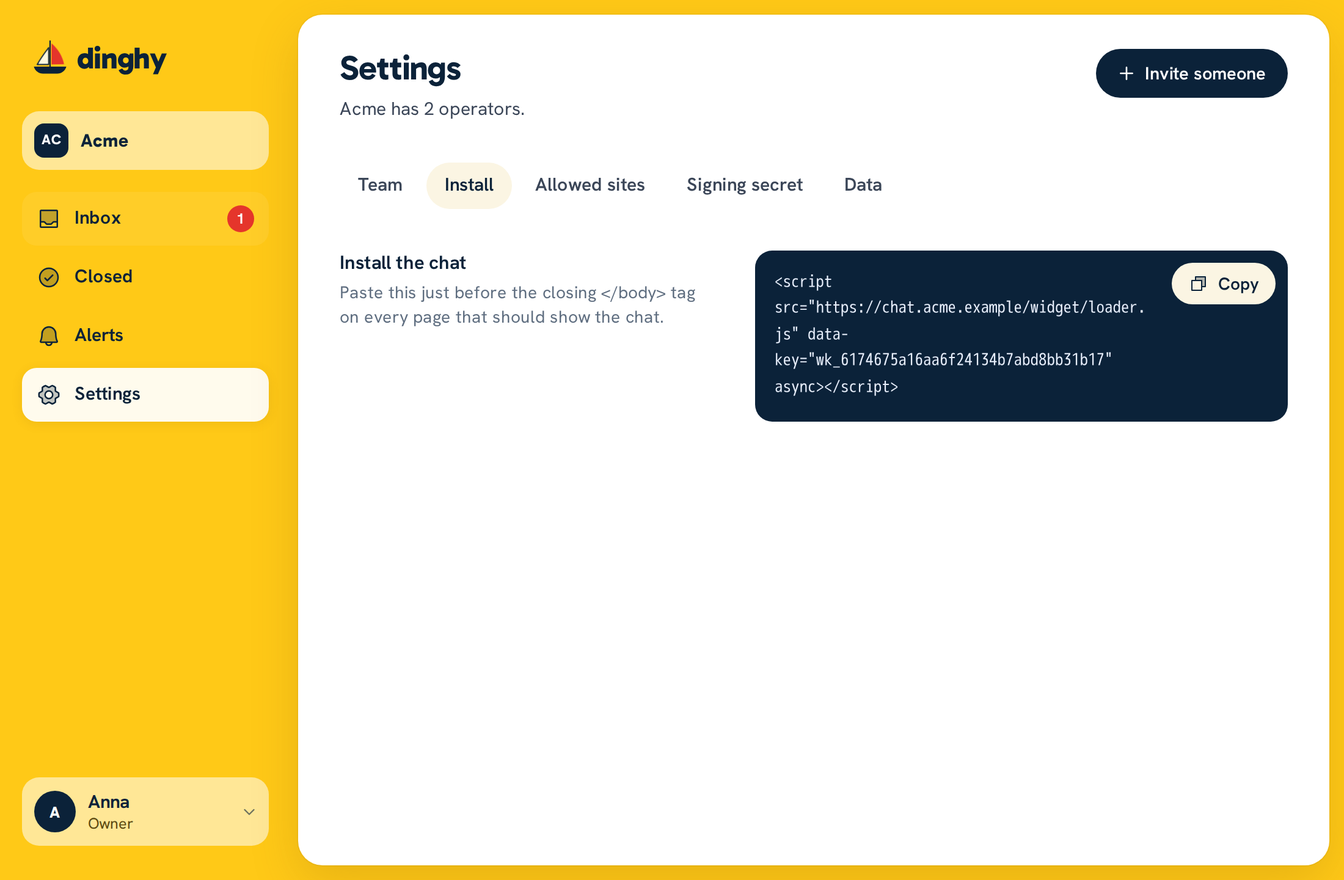
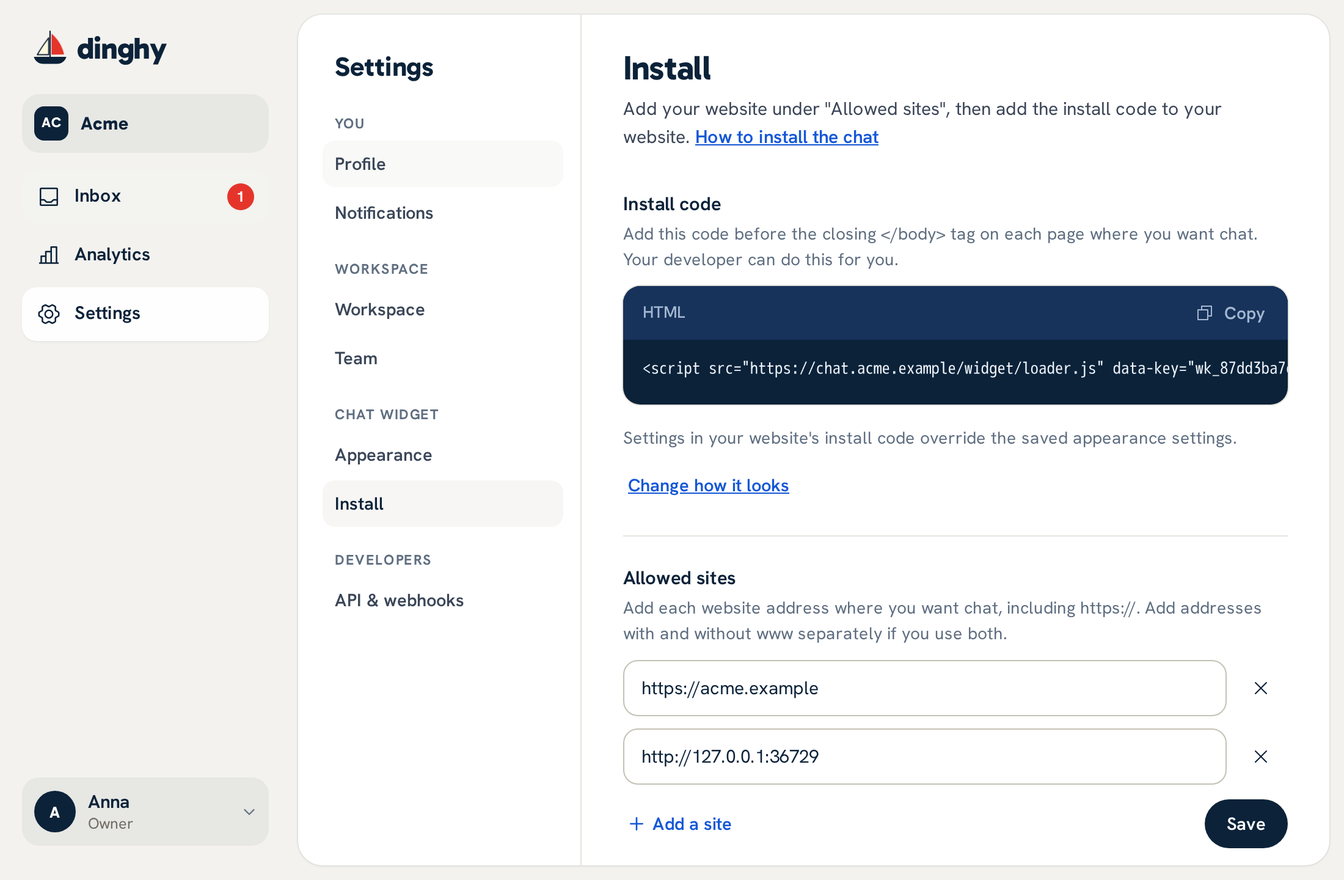
Docs: the new Settings layout, notification scopes, plan and usage, billing, and sign-in link fixes

diff --git a/docs/operator-guide.md b/docs/operator-guide.md
@@ -6,23 +6,23 @@ The operator app is where your team reads and answers chats. Open your Dinghy ad
 
 ## Answer a chat
 
-The sidebar has **Inbox**, **Analytics**, **Alerts** and **Settings**. New conversations appear in the **Inbox** with no reload, and the red number counts the people who wait for a reply. At the top of the list, **Open** and **Closed** pick which conversations it shows. In a team, **All**, **Mine** and **Unassigned** below them pick whose. The app remembers both in the address, so a reload or a shared link keeps them. Select one to read it, write in the reply box, and press Enter or the send button. If your site sends details with `setContext()`, they show under **From the page**. Your site does not sign them, so treat them as a hint.
+The sidebar has **Inbox**, **Analytics** and **Settings**. New conversations appear in the **Inbox** with no reload, and the red number counts the people who wait for a reply. At the top of the list, the **Open** and **Closed** switch picks which conversations it shows. In a team of more than one, **All**, **Mine** and **Unassigned** below it pick whose. The app remembers both in the address, so a reload or a shared link keeps them. Select one to read it, write in the reply box, and press Enter or the send button. If your site sends details with `setContext()`, they show under **Details from your website**. Visitors can change these details in their browser, so do not use them to verify identity or account access.
 
 To send an image, paste it, drag it onto the chat, or select the image button. The rules are the same as for visitors: PNG, JPEG or WebP, under 5 MB and under 16 megapixels.
 
 If a message shows "Not sent", select it to try again. A retry cannot create a second copy.
 
-If two of you open the same conversation, each sees "… is replying", so you do not answer twice.
+If two of you open the same conversation, each sees "… has this conversation open", so you do not answer twice. It means only that the conversation is open on their screen. Dinghy does not detect typing.
 
 To find a conversation, type at least three characters in the search box above the list. It searches open and closed conversations by the visitor's name, email or user ID, and by what anyone wrote, and shows the matching message under each one. Press Escape or empty the box to go back to the list.
 
-Under the visitor's name, the header shows their email and user ID, when the name does not already show them, and the page where they started. The next line shows **Online now** while the visitor has the chat open, or when they were last seen, then their browser and system, such as "Chrome on macOS". Below that is the last page they were on, which opens in a new tab; when it is the page where they started, the header names it only once. If Dinghy cannot tell whether they are online, it says nothing about it. On the right are the controls:
+Under the visitor's name, the header shows their email and user ID, when the name does not already show them, and the page where they started. The next line shows **Chat is open** while the visitor has the chat open, or when they were last seen, then their browser and system, such as "Chrome on macOS". Below that is the last page they were on, which opens in a new tab; when it is the page where they started, the header names it only once. If Dinghy cannot tell whether they are online, it says nothing about it. On the right are the controls:
 
 | Control | What it does |
 |---|---|
 | The assignee | A list that gives the conversation to one person on your team, or to nobody |
 | **Close** | Moves it under **Closed** in the Inbox. **Reopen** brings it back. If the visitor writes after a close, this starts a new conversation with no assignee, and the visitor sees one thread |
-| **…** then **Block** | Stops this visitor from sending messages. **Unblock** in the same place undoes it, and so does **Settings > Data > Blocked visitors** |
+| **…** then **Block** | Stops this visitor from sending messages. **Unblock** in the same place undoes it, and so does **Blocked visitors** in **Settings > Workspace** |
 | **…** then **Delete** | Deletes the conversation and its images for good, after you confirm. Owners and admins only |
 
 For a signed-in user, the conversation shows the name, email, user ID and custom attributes that [your site sent](add-to-your-site.md#show-who-is-chatting). An attribute that is a web address is a link.
@@ -39,21 +39,23 @@ Every number is about the conversations that started in that period:
 
 | Number | What it means |
 |---|---|
-| **Conversations** | How many started |
-| **Median first reply** | Half of the answered ones got their first reply from your team within this time, counted from the visitor's first message |
-| **90% replied within** | 9 in 10 of the answered ones got their first reply within this time |
-| **Answered within 5 min** | The share of all of them, answered or not, with a first reply within 5 minutes |
-| **Closed now** | How many of them are closed now |
+| **Conversations started** | How many started |
+| **First reply time (median)** | Half of the answered ones got their first reply within this time, counted from the conversation's start. Unanswered ones do not count |
+| **First reply time for 90% of answered chats** | 9 in 10 of the answered ones got their first reply within this time. Unanswered ones do not count |
+| **First reply within 5 minutes** | The share of all of them, answered or not, with a first reply within 5 minutes |
+| **Started in this period and now closed** | How many of them are closed now |
 
-Below are the conversations per day, the conversations each person answered first, and the busiest hours, as a grid of weekdays by hours where a darker square means more conversations started then. Hold the pointer over a bar or a square to see its number. With no conversation in the period, the page says so.
+A first reply can come from a person on your team or from software that uses an [API key](api.md#api-keys). Both count. On Dinghy Cloud, the welcome chat counts nowhere.
+
+Below are the conversations per day, **Who sent the first reply**, by person or API key, and the busiest hours, as a grid of weekdays by hours where a darker square means more conversations started then. Hold the pointer over a bar or a square to see its number. With no conversation in the period, the page says so.
 
 ## Get alerts
 
-Select **Alerts** in the sidebar. Each device has its own setting.
+Open **Settings > Notifications**. These settings affect only you, and each one has its own scope.
 
-- **Notifications on this device** sends a push notification when a visitor writes. Select **Turn on**, then **Send a test** to see if it works. A private window usually cannot turn this on.
-- **Email me about new messages** needs a mail server on your Dinghy install. A burst of messages in one conversation sends one email.
-- **Play a sound for new messages** plays a short chime when a visitor writes in a conversation you don't have open, or while the app's window is in the background. It is on unless you turn it off. The browser plays it only after your first click or key press in the app. A tab you are not on holds no live connection, so it stays silent: turn on notifications for that.
+- **Browser notifications** sends a push notification when a visitor writes. It is set per browser, and covers every workspace you are in. Turn it on in each browser you use. Select **Turn on**, then **Send a test** to see if it works. A private window usually cannot turn this on.
+- **Email me about new messages** is set per workspace, so turn it on in each workspace where you want emails. It needs a mail server on your Dinghy install. A burst of messages in one conversation sends one email.
+- **Play a sound for new messages** is set per browser. It plays a short chime when a visitor writes in a conversation you don't have open, or while the app's window is in the background. It is on unless you turn it off. The browser plays it only after your first click or key press in the app. A tab you are not on holds no live connection, so it stays silent: turn on notifications for that.
 
 On an iPhone, a web app can show notifications only from the Home Screen:
 
@@ -67,23 +69,34 @@ A phone can delay or drop a notification, so do not rely on one for urgent work.
 
 ## Your profile
 
-Select your name at the bottom of the sidebar, then **Profile**, to change the name your teammates see. Visitors see only your first name, next to your replies. **Sign out** is in the same menu.
+Select your name at the bottom of the sidebar, then **Profile**. This opens **Settings > Profile**, where you change the name your teammates see. Visitors see only your first name, next to your replies. **Sign out** is in the same menu.
 
 **Picture** in **Profile** sets your picture from a PNG, JPEG or WebP of up to 2 MB. Dinghy cuts it to a square. Visitors see it next to your replies and at the top of the chat, and your team sees it in place of your initials in the inbox, a conversation and **Team**. It is the same in every workspace.
+
+**Theme** picks light, dark or **Use device setting** for the operator app. It applies only to this browser.
 
 **Delete my account** is in **Profile** too, on the payment screen, on the screen that asks for an invite, and on the workspace setup once you have been in a workspace. It takes you out of every workspace, ends your sessions, and erases your name and email. The workspaces keep their conversations, and your old replies show as from "Former team member".
 
 A workspace where you are the only owner blocks the delete. The dialog lists each one, with a way to delete it or to make someone else its owner. A workspace that waits for its first payment can only be deleted. A self-hosted server keeps its last workspace, so if it is one of these, make someone else its owner.
 
-With a mail server, Dinghy emails you a link that confirms the delete. It works once, for 15 minutes. Without one, you type your email to confirm, and the account goes at once.
+With a mail server, Dinghy emails you a confirmation link. Open it within 15 minutes, then select **Delete my account**. Opening the link deletes nothing. Without a mail server, you type your email to confirm, and the account goes at once.
 
 ## Set up your team
 
 ![The settings page](media/settings.png)
 
-Everyone can open **Settings**. Its tabs are **Team**, **Widget**, **Install**, **Allowed sites**, **Signing secret**, **API** and **Data**. A member sees the team, the widget's settings without changing them, and the blocked visitors under **Data** once someone is blocked. The other tabs are for owners and admins.
+Everyone can open **Settings**. A list on its left groups the pages:
 
-To invite someone, select **Invite someone** at the top of Settings, enter their email, pick a role, and select **Send invite**. Dinghy emails them a link to join. Without a mail server, select **Create invite link** instead, and send the link to that one person. Pending invites show in the team list with their email and the days they have left. Select the trash icon and confirm to revoke one. To send an invite again, invite the same email again: the old link stops working. A link works once and lasts 7 days, and only that email can use it.
+| Group | Pages |
+|---|---|
+| **You** | **Profile**, **Notifications** |
+| **Workspace** | **Workspace**, **Team** |
+| **Chat widget** | **Appearance**, **Install** |
+| **Developers** | **API & webhooks** |
+
+Each page has its own address, such as `/settings/team`, so a reload or a bookmark opens it again. On a phone, the list is its own screen, and **Back** on a page returns to it. A member sees **Profile**, **Notifications**, **Team** and **Appearance**, and cannot change the team or the chat's look. Owners and admins see every page.
+
+To invite someone, open **Settings > Team**, select **Invite someone** at the top of the page, enter their email, pick a role, and select **Send invite**. Dinghy emails them a link to join. Without a mail server, select **Create invite link** instead, and send the link to that one person. Pending invites show in the team list with their email and the days they have left. Select the trash icon, then **Cancel invite**, to cancel one. To send an invite again, invite the same email again: the old link stops working. A link works once and lasts 7 days, and only that email can use it.
 
 Someone new opens the link, enters a name and selects **Join**. That creates their account, joins the workspace and signs them in. Someone who already has an account with that email selects **Join**, and Dinghy emails them a link that joins the workspace and signs them in. Someone already signed in with that email selects **Join** at once. Without a mail server, nothing checks the email, so send the link only to the person it is for. Someone who already has an account there signs in first, then opens the invite.
 
@@ -99,23 +112,56 @@ Someone in two workspaces switches between them with the workspace name at the t
 
 ## Change the widget
 
-**Widget** in **Settings** changes how the chat looks and behaves on your site, with no code. The preview beside the form shows each change before you save: the open chat, with the chat button under it, in light or dark colors. On a phone, the preview sits above the form, and **Hide the preview** folds it away.
+**Settings > Appearance** changes how the chat looks and behaves on your site, with no code. The preview beside the form shows each change before you save: the open chat, with the chat button under it, in light or dark colors. On a phone, the preview sits above the form, and **Hide the preview** folds it away.
 
-- **Logo** shows at the top of the chat, in place of the boat. It saves as soon as you pick it.
-- **Words**: the chat's title, its greeting in an empty chat and its text for when nobody is online. An empty box keeps Dinghy's own words.
-- **Look**: the main color and the accent color, the side of the page, the theme (light, dark, or auto, which follows the visitor's device), the chat button (a bubble, a label with the chat's title, a square, a boat, or hidden so your own button opens the chat), the corners, and whether the open chat shows the boat.
-- **Behavior**: when to ask a visitor for an email, so you can reply after they leave: never, after their first message, or before it. Dinghy never asks a signed-in user, nor anyone when your server sends no email. A switch hides the "Powered by Dinghy" line under the chat.
+- **Chat text**: the chat's title, its greeting before the first message and its message for when nobody is online. An empty field keeps Dinghy's own text.
+- **Colors and layout**: the main color and the accent color, the side of the page, the theme (light, dark, or **Use device setting**, which follows the visitor's device), the chat button (a bubble, a label with the chat's title, a square, a boat, or hidden so your own button opens the chat), the corner rounding, and whether the open chat shows the boat.
+- **Email and branding**: when to ask visitors for their email, so you can reply after they leave: never, after their first message, or before it. Dinghy never asks a signed-in user, nor anyone when your server sends no email. A switch hides the "Powered by Dinghy" line under the chat.
 
-**Save** sends the form, and your site shows the change within 5 minutes. The browser asks before you leave the page with a change you did not save. The top of the chat also shows up to 3 members who replied last, by first name and picture. Attributes in your site's tag win over these settings: see [Add the chat to your website](add-to-your-site.md#change-how-it-looks).
+**Save** sends the form, and your site shows the change within 5 minutes. The browser asks before you leave the page with a change you did not save. The top of the chat shows the workspace's logo, which you change in **Settings > Workspace**. It also shows up to 3 members who replied last, by first name and picture. Attributes in your site's tag win over these settings: see [Add the chat to your website](add-to-your-site.md#change-how-it-looks).
 
 ## The other settings
 
-- **Install** has the tag for your site, with a **Copy** button.
+**Settings > Install** has three sections. Owners and admins see it.
+
+- **Install code** has the tag for your site, with a **Copy** button.
 - **Allowed sites** lists the sites that can load the chat, one per row. **Add a site** adds a row, and each row says if its address is not a site such as `https://example.com`.
-- **Signing secret** is for [signed-in users](add-to-your-site.md#show-who-is-chatting). It stays hidden until you select the eye. **Replace the secret** asks first, because the old one stops working at once.
-- **API** has the workspace's [API keys](api.md#api-keys), for your own scripts and AI agents, and its [webhooks](api.md#webhooks), which tell your server about new conversations and messages. A key's token and a webhook's secret show once, so copy them then. A key's replies show its name, and **Revoke** stops it at once.
-- **Data** has **Download an export**, which saves all conversations and images as one file that imports into a self-hosted Dinghy, and **Delete workspace**.
-- On Dinghy Cloud, **Team** also shows how many of the plan's 5 operators and 1 GB of images are in use.
+- **Identify signed-in users (optional)** holds the identity signing secret, for [signed-in users](add-to-your-site.md#show-who-is-chatting). Ordinary chat does not need it. It stays hidden until you select the eye. **Replace the secret** asks first, because the old one stops working at once.
+
+**Settings > API & webhooks** has the workspace's [API keys](api.md#api-keys), for your own scripts and AI assistants, and its [webhooks](api.md#webhooks), which tell another app about new conversations and messages. Both are optional. A key's token and a webhook's secret show once, so copy them then. A key's replies show its name, and **Revoke** stops it at once. Owners and admins see this page.
+
+**Settings > Workspace** is for owners and admins. It has these sections:
+
+- **Workspace name**: owners and admins change it here, and the sidebar shows the new name at once.
+- **Logo**: it shows in the workspace menu and at the top of the chat, in place of the boat. Use a square PNG, JPEG or WebP of up to 2 MB. It saves as soon as you pick it.
+- **Plan and usage**, on Dinghy Cloud only. See [Plan and usage](#plan-and-usage).
+- **Billing**, on Dinghy Cloud, for owners. See [Billing](#billing).
+- **Blocked visitors**, once someone is blocked, with **Unblock** for each one.
+- **Export workspace**, for owners: **Download an export** saves the workspace's conversations, images, team and settings as one file, which imports into another Dinghy server. See [Moving a workspace](self-hosting.md#moving-a-workspace).
+- **Delete workspace**, for owners. See [Deleting a workspace](self-hosting.md#deleting-a-workspace).
+
+## Plan and usage
+
+This applies to Dinghy Cloud only. A self-hosted server has no plan limits.
+
+Each workspace on Dinghy Cloud includes up to 5 team members and 1 GB of image storage. **Settings > Workspace** shows how much of each is in use, and the **Team** page says how many of the 5 places are taken.
+
+- **Team members**: pending invites count toward the limit, because each one can still become a member. An invite stops counting once it is used, canceled or expired, after 7 days. To free a place, remove someone in **Settings > Team**, or cancel a pending invite.
+- **Image storage**: the images sent in chats count, by their stored size. Dinghy Cloud deletes each image automatically 12 months after it was sent, and the conversation shows "Image removed after 12 months" in its place. The text stays. To free space now, an owner or admin deletes conversations that hold images. When an image does not fit in the space left, Dinghy refuses it, for your team and for visitors.
+
+## Billing
+
+This applies to Dinghy Cloud only. A self-hosted server has no billing.
+
+Dinghy Cloud costs $7 a month per workspace, and Stripe takes the payment. You pay when you create the workspace: after you name it, Dinghy opens Stripe's checkout, and the workspace opens once Stripe confirms the payment. Only an owner pays. A member who opens an unpaid workspace sees that it waits for an owner. The subscription renews each month.
+
+An owner sees the subscription's state in **Settings > Workspace**, under **Billing**. **Manage billing** opens Stripe, where you change the card, see invoices or cancel. A canceled subscription keeps the workspace working until the end of the month you paid for, and the owners get an email 3 days before that end.
+
+If a payment fails, the workspace keeps working for 7 days, and the owners get emails about it. A banner asks the owner to update the card. If no payment succeeds in those 7 days, Dinghy ends the subscription.
+
+When the subscription ends, the workspace becomes read-only for 90 days. The chat widget is off, and nobody can reply to visitors. Your team can still sign in, read the conversations and download an export. The owners get an email 30 days and 7 days before the deletion. To keep the workspace, an owner selects **Restart subscription** in the banner above the inbox, and pays again through Stripe. After the 90 days, Dinghy deletes the workspace and its data.
+
+Deleting a workspace yourself ends its subscription that day, with no refund.
 
 ## If no sign-in link arrives
 

diff --git a/docs/troubleshooting.md b/docs/troubleshooting.md
@@ -33,32 +33,32 @@ curl https://chat.example.com/readyz
 - If `loader.js` fails, the address in the tag is wrong, or your site's Content Security Policy blocks it. See [the policy to use](add-to-your-site.md#if-your-site-has-a-content-security-policy).
 - Check that the tag has `data-key`, and that it does not have `data-launcher="hidden"`.
 
-**The chat opens, but each message says "Not sent. Select to try again".** Your site is probably not on the allowed list. The browser's console then shows a CORS error for the request. Add your site's exact origin to **Settings > Allowed sites**. `https://example.com` and `https://www.example.com` are two different origins.
+**The chat opens, but each message says "Not sent. Select to try again".** Your site is probably not on the allowed list. The browser's console then shows a CORS error for the request. Add your site's exact origin under **Allowed sites** in **Settings > Install**. `https://example.com` and `https://www.example.com` are two different origins.
 
 **The chat says "Connection lost. Trying again..." and replies never appear.** Check that the page is not served from the same address as Dinghy. The chat must be on another origin.
 
-**A signed-in user sees "Not sent. Select to try again".** Check the token fields in [the table](add-to-your-site.md#show-who-is-chatting). The usual causes are a wrong `aud`, `iat` and `exp` more than 24 hours apart, or a secret that was replaced in Settings.
+**A signed-in user sees "Not sent. Select to try again".** Check the token fields in [the table](add-to-your-site.md#show-who-is-chatting). The usual causes are a wrong `aud`, `iat` and `exp` more than 24 hours apart, or a secret that was replaced in **Settings > Install**.
 
 **A visitor's image fails.** It must be PNG, JPEG or WebP, under 5 MB and under 16 megapixels. Under heavy load, the server also refuses uploads for a short time. [The measurements](measurements.md) have the numbers.
 
 ## Alerts
 
-**No push notification.** In **Alerts**, select **Send a test**.
+**No push notification.** In **Settings > Notifications**, select **Send a test**. Browser notifications are set per browser, so turn them on in each browser you use.
 
-- "This server has no push keys" means `docker compose restart app` has not run since the setup.
-- "This browser blocks notifications" means you must allow them in the browser's settings for this site.
-- "Notifications could not be turned on" often means a private window. Use a normal one.
+- "Browser notifications are not set up on this server" means `docker compose restart app` has not run since the setup.
+- "Notification permission is not enabled" means you must allow notifications for this site in the browser's settings. Dismissing the browser's question has the same effect.
+- "Dinghy could not turn on notifications" often means a private window. Use a normal one.
 - On an iPhone, open the app from the Home Screen. See [Get alerts](operator-guide.md#get-alerts).
 
-**No email.** Set `SMTP_URL` and `MAIL_FROM` in `.env`, and run `docker compose up -d --wait`. Then read `docker compose logs app` for a mail error.
+**No email.** Email notifications are set per workspace, in **Settings > Notifications**. Check that they are on in this workspace. Then set `SMTP_URL` and `MAIL_FROM` in `.env`, and run `docker compose up -d --wait`. Then read `docker compose logs app` for a mail error.
 
 ## Sign-in
 
 **No sign-in link arrives.** Check the spam folder, then `docker compose logs app` for a mail error. Without a mail server, or for a link at once, run `docker compose exec app chat sign-in-link you@example.com`. It prints a link that works once, for 15 minutes.
 
-**"That link has expired or was already used".** Ask for a new one. A link works once, for 15 minutes. A mail scanner that opens links before you do can use it up, so open the newest one.
+**"That link has expired or was already used".** Ask for a new one. A link works once, for 15 minutes, and only the button on the page it opens uses it. A mail scanner that opens the link first does no harm. If you asked for several links, each one still works until it expires or you use it.
 
-**"Too many links asked for".** Wait an hour, or run `chat sign-in-link` as above.
+**"Too many email links requested".** Wait an hour, or run `chat sign-in-link` as above.
 
 **All visitors share one rate limit, or the limits look wrong.** Set `TRUSTED_PROXY_HOPS` as [Behind your own reverse proxy](self-hosting.md#behind-your-own-reverse-proxy) explains.
 

diff --git a/docs/add-to-your-site.md b/docs/add-to-your-site.md
@@ -4,7 +4,7 @@
 
 ## Add the tag
 
-The installer prints your tag. You can also copy it from **Settings > Install** in the operator app. It looks like this:
+The installer prints your tag. You can also copy it from **Install code** in **Settings > Install** in the operator app. It looks like this:
 
 ```html
 <script src="https://chat.example.com/widget/loader.js" data-key="wk_your_public_key" async></script>
@@ -12,7 +12,7 @@ The installer prints your tag. You can also copy it from **Settings > Install** 
 
 Put it before the closing `</body>` tag, on every page that should have the chat.
 
-Then add your website to **Settings > Allowed sites**, with one origin on each line. An origin has the scheme and the host and no path, such as `https://www.example.com`. The chat does not work on a site that is not on this list. This includes `www` and the bare domain, which are two different origins.
+Then add your website under **Allowed sites** in **Settings > Install**, with one origin on each line. An origin has the scheme and the host and no path, such as `https://www.example.com`. The chat does not work on a site that is not on this list. This includes `www` and the bare domain, which are two different origins.
 
 The tag is safe to publish. The key in it only names your workspace. The tag loads a small script of under 4 KB, and the full chat loads only when a visitor opens it or comes back to a chat.
 
@@ -20,7 +20,7 @@ Put the chat on your own site, not on a page served from the same address as Din
 
 ## Change how it looks
 
-The easiest way needs no code: **Settings > Widget** in the operator app sets the colors, the side, the theme, the chat button, the corners, the boat, the words, when to ask for an email and the "Powered by Dinghy" line. The [operator guide](operator-guide.md#change-the-widget) explains it. Your site shows a saved change within 5 minutes.
+The easiest way needs no code: **Settings > Appearance** in the operator app sets the colors, the side, the theme, the chat button, the corners, the boat, the words, when to ask for an email and the "Powered by Dinghy" line. The [operator guide](operator-guide.md#change-the-widget) explains it. Your site shows a saved change within 5 minutes.
 
 You can also set the look in the tag. These attributes win over the saved settings, and `Dinghy.configure()` wins too:
 
@@ -198,7 +198,7 @@ If your site has logins, you can tell Dinghy who the user is. Their chat then fo
 
 Your server signs a short token with the workspace's signing secret, and your page passes it to the widget.
 
-**1. On your server,** sign the token. Copy the secret from **Settings > Signing secret**, and keep it on your server only. This example uses the `jose` package for Node:
+**1. On your server,** sign the token. Copy the secret from **Identify signed-in users (optional)** in **Settings > Install**, and keep it on your server only. This example uses the `jose` package for Node:
 
 ```js
 import { SignJWT } from "jose";
@@ -249,7 +249,7 @@ You can also pass the token as a string, but a string cannot renew itself. Call 
 Dinghy.reset();
 ```
 
-If you replace the signing secret in Settings, tokens signed with the old one stop working at once. Update your server at the same moment.
+If you replace the signing secret in **Settings > Install**, tokens signed with the old one stop working at once. Update your server at the same moment.
 
 ## If your site has a Content Security Policy
 
@@ -279,6 +279,6 @@ A visitor who never used the chat sends nothing about themselves, and the widget
 
 ## Change the chat's words
 
-An owner or admin can change the chat's title, its greeting in an empty chat, and the line it shows when nobody is online, in **Settings > Widget**. An empty box keeps Dinghy's own words.
+An owner or admin can change the chat's title, its greeting in an empty chat, and the line it shows when nobody is online, in **Settings > Appearance**. An empty field keeps Dinghy's own text.
 
 The widget lives in its own Shadow DOM, so your site's styles do not change it, and its styles do not change your site.

diff --git a/docs/self-hosting.md b/docs/self-hosting.md
@@ -193,16 +193,18 @@ A suspended workspace cannot send messages or images, its widget answers as if i
 
 An export holds a workspace's conversations, visitors, team, settings and images. It moves a workspace from one Dinghy server to another, such as from the cloud to your own server.
 
-1. On the old server, an owner selects **Download an export** in Settings. Or run the export command from the table above.
+1. On the old server, an owner selects **Download an export** in **Settings > Workspace**. Or run the export command from the table above.
 2. Install the new server. If you sign up there with the same email as on the old one, your account joins the imported workspace.
 3. Import the file with the import command above. It refuses a workspace that is already on this server.
 4. The import names the operators who had no account on this server. They sign in with a link sent to their email, or, with no mail server, one from `docker compose exec app chat sign-in-link <email>`.
 5. Change the widget tag on your site to load from the new server's address. The public key and the allowed sites stay the same.
-6. The workspace gets a new signing secret. If your site signs users in with a host token, copy the new secret from **Settings** to your site's server, because tokens signed with the old one fail.
+6. The workspace gets a new signing secret. If your site signs users in with a host token, copy the new secret from **Settings > Install** to your site's server, because tokens signed with the old one fail.
+7. API keys come in revoked, because their tokens never leave the old server. Create new keys in **Settings > API & webhooks**, and give them to your scripts and AI assistants.
+8. An export does not hold webhooks. Add them again in **Settings > API & webhooks**, and give each receiving app its new signing secret.
 
 ## Deleting a workspace
 
-An owner deletes a workspace in Settings, under **Data**, with **Delete workspace**. The dialog lists what goes: the workspace's conversations, images and team members, with their numbers. It offers **Download an export first**, then asks for the workspace's name. A self-hosted server keeps its last workspace, so the delete is refused when only one is left, and the dialog says why. The workspace is gone for its team and its widget at once. Within a few minutes, the worker deletes its conversations, visitors, settings and images, then the workspace itself. Operator accounts stay, because one login can belong to other workspaces. The nightly backups on this disk still hold the workspace until the newest 7 have replaced them, and a backup bucket keeps it until its own lifecycle rule expires it.
+An owner deletes a workspace in **Settings > Workspace**, with **Delete workspace**. The dialog gives the number of conversations and images it deletes, and the number of team members who lose access. Their Dinghy accounts stay. It offers **Download an export first**, then asks for the workspace's name. A self-hosted server keeps its last workspace, so the delete is refused when only one is left, and the dialog says why. The workspace is gone for its team and its widget at once. Within a few minutes, the worker deletes its conversations, visitors, settings and images, then the workspace itself. Operator accounts stay, because one login can belong to other workspaces. The nightly backups on this disk still hold the workspace until the newest 7 have replaced them, and a backup bucket keeps it until its own lifecycle rule expires it.
 
 ## Backups
 

diff --git a/docs/api.md b/docs/api.md
@@ -94,7 +94,7 @@ Pass the last cursor when you reconnect, and the stream replays what you missed.
 
 ## API keys
 
-An API key lets a script or an AI agent work in one workspace without a person's session. An owner or admin creates one in **Settings > API**, and gives it a name, such as "Support bot". The token, which starts with `dk_`, shows once. Store it like a password. Dinghy keeps only its hash.
+An API key lets a script or an AI agent work in one workspace without a person's session. An owner or admin creates one in **Settings > API & webhooks**, and gives it a name, such as "Support bot". The token, which starts with `dk_`, shows once. Store it like a password. Dinghy keeps only its hash.
 
 Send it as a bearer token. It needs no `Origin`, because a browser never sends this header on its own:
 
@@ -117,7 +117,7 @@ A token names its workspace: it is `dk_`, the workspace's ID, a dot, and a rando
 
 ## Webhooks
 
-A webhook sends a signed `POST` to your server when something changes in a workspace. An owner or admin adds one in **Settings > API**, with its address and the events it wants. A workspace has at most 5. The signing secret shows once, and **Replace secret** makes a new one. **Send test** sends a `webhook.test` event at once and shows the answer.
+A webhook sends a signed `POST` to your server when something changes in a workspace. An owner or admin adds one in **Settings > API & webhooks**, with its address and the events it wants. A workspace has at most 5. The signing secret shows once, and **Replace secret** makes a new one. **Send test** sends a `webhook.test` event at once and shows the answer.
 
 | Event | When |
 |---|---|

diff --git a/docs/deploy-coolify-dokploy.md b/docs/deploy-coolify-dokploy.md
@@ -44,7 +44,7 @@ If the platform's proxy sits behind Cloudflare's proxy too, set `TRUSTED_PROXY_H
 ## Things to check after the first start
 
 - `https://chat.example.com/readyz` answers.
-- You can sign in, and the snippet in Settings uses your domain, not `localhost`.
+- You can sign in, and the install code in **Settings > Install** uses your domain, not `localhost`.
 - A message from the widget on your site reaches the operator app at once. If it arrives late or only after a reload, the proxy buffers the live stream. See [the proxy rules](self-hosting.md#behind-your-own-reverse-proxy).
 - An image of a few MB sends.
 
